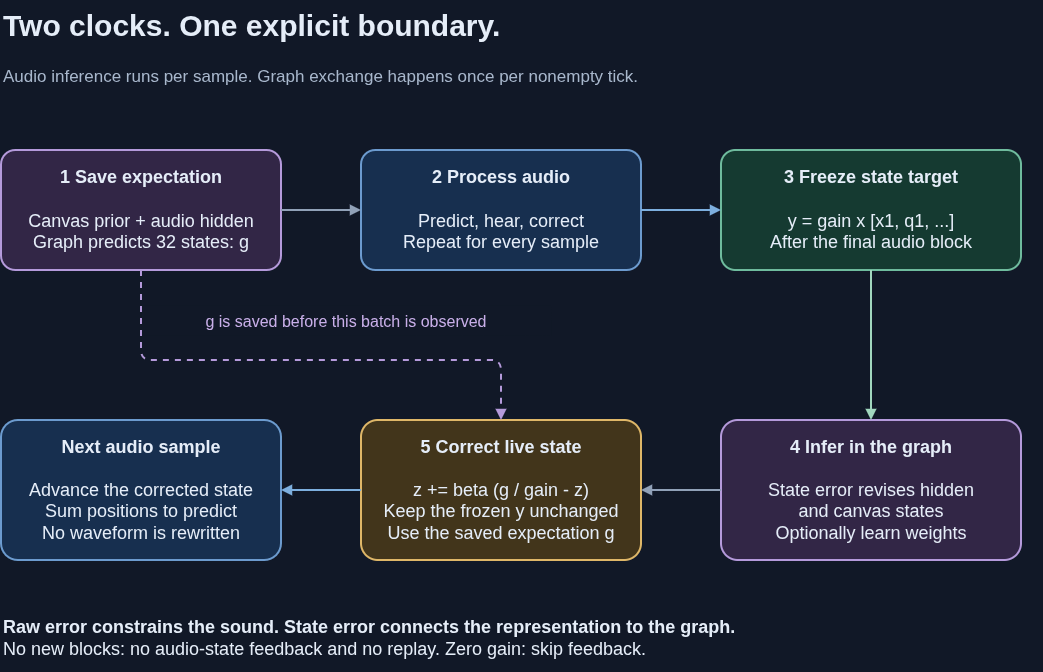
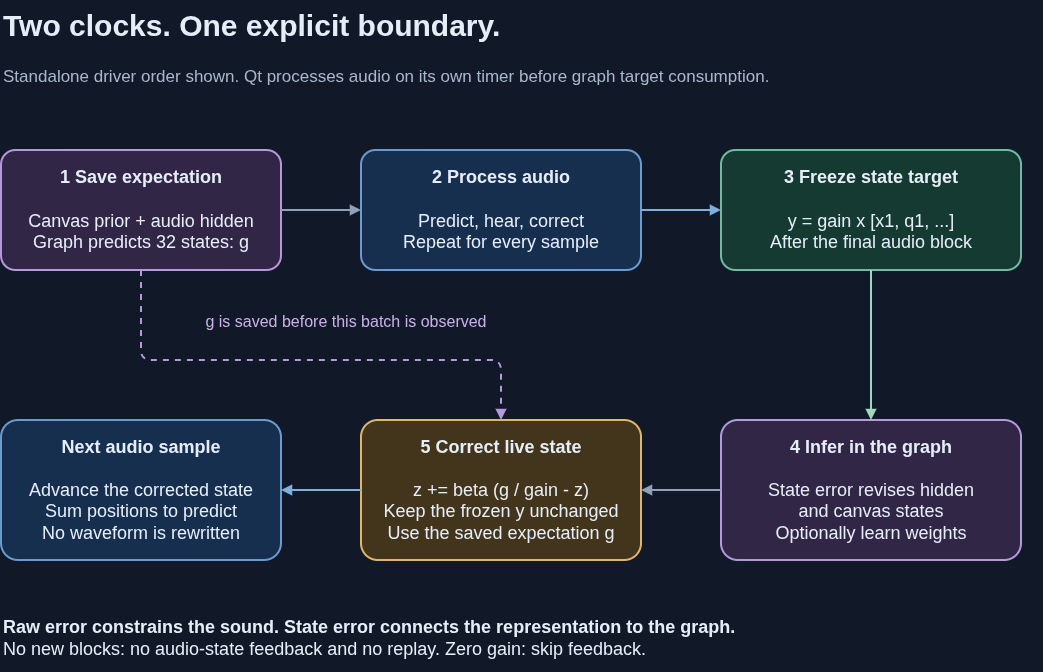
docs: show shared audio views and aligned dark history plots

Changed region(s): [[0.0, 0.0938, 0.7363, 0.125]]

diff --git a/docs/cochlea/index.md b/docs/cochlea/index.md
@@ -26,6 +26,10 @@ cross-modal connections are rebuilt, while the canvas and camera branch stay
 intact. Local TUI playback is muted on a model change. The spectral model
 remains the default.
 
+The listening controls below belong to the standalone TUI. Qt's existing
+device playback path is unchanged; this shared-view slice does not add a Qt
+listening-tap selector.
+
 | Sound out | Signal | Meaning |
 | --- | --- | --- |
 | `input` | $s_t$ | Original mono microphone or synthetic samples |
@@ -317,12 +321,21 @@ It demonstrates causal tracking, not general audio reconstruction quality.
 
 ## Shared audio history
 
+![Process-owned audio and graph exchange feed the projector and attached tablet](cochlea-shared-views.png)
+
 The Qt audio window includes an **oscillator-index / time** row. Its model
 selector and the attached TUI's mixer address the same orchestrator. The
 terminal's **cochlea** tile is a lower-resolution projection of that history,
 with low indices at the bottom and time moving right. Both use a fixed
 $[-80,0]$ dB state-amplitude scale (reference amplitude 1), so fading remains
 visible. Literal spinning phase indicators are not included.
+
+![Actual dark Qt audio window: diagnostic mel spectrum, oscillator activity, and raw waveform aligned in time](audio-history.png)
+
+Three synthetic tone bursts, with graph feedback off for this illustration.
+The cochlea's bands show state amplitude, including off-resonance responses and
+decay. The diagnostic spectrum still exposes centered block-edge artifacts;
+its shorter retained interval is blank on the left, not stretched across time.
 
 `AudioProcessor.get_audio_history()` returns read-only copies on the process's
 audio sample clock. Renderers do not infer, integrate, or feed back into the
@@ -360,7 +373,19 @@ terminal views use a fixed $[-1,1]$ amplitude range and per-column min/max
 envelopes, preserving transients as resolution decreases. The 3D landscape
 retains its separate short waveform-source duration.
 
+The attached terminal reads these same arrays through the deck socket. It
+keeps its local graph idle; no microphone or oscillator bank is started by
+opening the remote view.
+
 ## Reproduce and inspect
+
+Render the actual Qt history window without opening audio devices:
+
+```bash
+PYTHONPATH=src uv run python scripts/render_audio_history.py
+```
+
+The output is `outputs/cochlea/audio-history.png`.
 
 ```bash
 PYTHONPATH=src uv run python scripts/validate_cochlea.py
@@ -374,7 +399,7 @@ processing faster than real time on the current machine and a residual-power
 threshold for the two-tone example. It does not measure hardware round-trip
 latency or guarantee real-time performance of a large canvas.
 
-The editable diagram has two pages:
+The editable diagram has three pages: sample loop, graph boundary, and shared views.
 [cochlea.drawio](./cochlea.drawio). Open it in VS Code with the draw.io extension,
 or in draw.io desktop; double-click a label to edit it.
 
@@ -385,7 +410,11 @@ or in draw.io desktop; double-click a label to edit it.
 | Signed graph target | `src/audioviz/sources/audio.py` |
 | Pooled state decoder | `src/audioviz/readouts/audio.py` |
 | Graph inference and weight updates | `src/audioviz/readouts/predictive_coding.py` |
-| Two-rate scheduling and feedback | `src/audioviz/tui/graph_runtime.py` |
+| Shared model selection and graph feedback | `src/audioviz/sources/orchestrator.py` |
+| Standalone two-rate driver | `src/audioviz/tui/graph_runtime.py` |
+| Shared time grids, decibels and waveform envelopes | `src/audioviz/visualization/audio_history_view.py` |
+| Full-resolution history window | `src/audioviz/visualization/spectrogram_visualizer.py` |
+| Attached thumbnails | `src/audioviz/tui/views.py`, `deck_server.py` |
 | Ordered input blocks and listening taps | `src/audioviz/tui/audio_feed.py`, `audio_out.py` |
 
 The diagrams and equations describe the implementation in this worktree.

diff --git a/workstreams/cochlea.md b/workstreams/cochlea.md
@@ -23,7 +23,8 @@ history; no view advances the model. Switching models resets only the audio
 branch and cross-modal connections, preserving the canvas and camera branch.
 
 **Documentation.** [Equations, timing, limitations, and diagrams](../docs/cochlea/index.md).
-Editable two-page source: `docs/cochlea/cochlea.drawio`.
+Editable three-page source: `docs/cochlea/cochlea.drawio`.
+`scripts/render_audio_history.py` reproduces the headless Qt history screenshot.
 
 **Validation.** `uv run --group dev python -m pytest -q tests/audio_processing/test_cochlea.py tests/tui/test_cochlea_runtime.py`.
 `PYTHONPATH=src uv run python scripts/validate_cochlea.py` writes an illustrative
